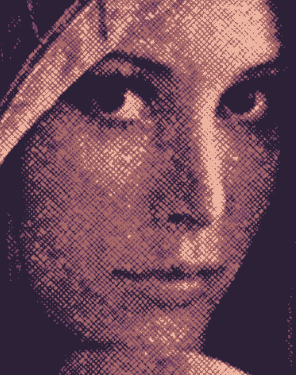
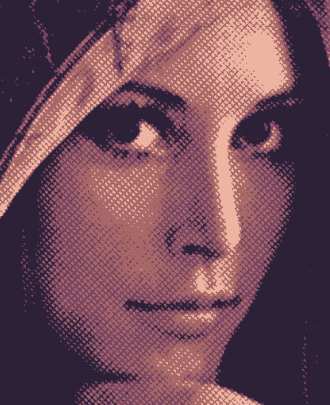
Lena at the disco

diff --git a/Scripting-Tutorial-Halftone-Filter.md b/Scripting-Tutorial-Halftone-Filter.md
@@ -931,7 +931,7 @@ Actually printed paper uses a CMYK color model (Cyan-Magenta-Yellow-Black) with 
 
 ![filter halftone pattern pop art](images/scripting/filter-halftone-pop-art.png)
 
-Even if the CMYK print raster is not the same, this works very well in 8 colors because mixing the primary colors Red, Green and Blue with an additive blend gives directly the primary colors of a subtractive blend Cyan (Green+Blue), Magenta (Red+Blue) and Yellow (Red+Green). At the end the same 8 colors are present in the picture.
+Even if our filter does not produce the typical CMYK print raster, it works very well in 8 colors because mixing the primary colors Red, Green and Blue with an additive blend gives directly the primary colors of a subtractive blend Cyan (Green+Blue), Magenta (Red+Blue) and Yellow (Red+Green). At the end, the resulting set of colors is the same with additive RGB or subtractive CMYK, and this is why the general impression produced by the output of the filter reminds printed paper.
 
 ### Arbitrary palette
 
@@ -1000,15 +1000,91 @@ Add the code, restart OBS, use the Gameboy palette with a Bayer matrix for dithe
 
 ![filter halftone lena gameboy](images/scripting/filter-halftone-lena-gameboy.png)
 
-Another interesting effect with a reduced palette is to use a hatching dithering pattern and adjust levels to make the result looks like hand drawn:
+Another interesting effect with a reduced palette is to use a hatching dithering pattern and adjust levels to make the result looks like a hand drawn picture (yes, that's possible too with the simplest dithering algorithm!):
 
 ![filter halftone lena hatch](images/scripting/filter-halftone-lena-hatch.png)
 
-### Using an animated gif
+With this quick and dirty pattern (not completely seamless but it is not visible on the picture):
 
-
+![filter halftone pattern hatch](images/scripting/filter-halftone-pattern-hatch.png)
 
 ### Transparency
+
+The functions `get_closest_color` and `get_perturbation` both return a `float4` with an alpha value from the related texture. There several ways we can mix the colors now, and let OBS mix colors with the other stuff on the screen. To keep it simple we will just:
+
+- Re-use the alpha of the input source as output (it is already the case in the current code)
+- Blend the result of the dithering with the input source according to the product of the alpha values returned by both functions, i.e. wherever there is some transparency in the palette or the pattern the unmodified source picture will appear
+
+The code is straightforward in the effect file, replace the last `return` line of the pixel shader with (note the use of the [`lerp`](https://docs.microsoft.com/en-us/windows/win32/direct3dhlsl/dx-graphics-hlsl-lerp) function to interpolate between two RGB vectors):
+
+``` HLSL
+    float mix_alpha = perturbation.a * closest_color.a;
+    float3 mixed_color = lerp(source_sample.rgb, closest_color.rgb, mix_alpha);
+
+    return float4(encode_gamma(mixed_color, gamma), source_sample.a);
+```
+
+The mix can be used to give a soft hatching effect with a transparent hatch pattern:
+
+![filter halftone lena soft hatch](images/scripting/filter-halftone-lena-soft-hatch.png)
+
+Done with this pattern (here again not perfectly seamless):
+
+![filter halftone pattern hatch transparent](images/scripting/filter-halftone-pattern-hatch-transparent.png)
+
+Another use of the effect would be masking a specific set of colors in the palette.
+
+### Using an animated GIF
+
+OBS foresees the functions [`gs_image_file_tick`](https://obsproject.com/docs/reference-libobs-graphics-image-file.html#c.gs_image_file_tick) and [`gs_image_file_update_texture`](https://obsproject.com/docs/reference-libobs-graphics-image-file.html#c.gs_image_file_update_texture) for animated GIF files! This is relatively easy to put in place and does not interfere with the rest.
+
+It is necessary to known how many nanoseconds passed since the last tick in `gs_image_file_tick`. This information is not available in `video_render` but it is in `video_tick`. So, assuming both functions are called each frame, we implement the `source_info.video_tick` function just to store the information in `data`, in the Lua file:
+
+``` Lua
+source_info.video_tick = function(data, seconds)
+  data.nanoseconds = seconds*1e9
+end
+```
+
+Then we re-write the `set_texture_effect_parameters` function with the "tick" function:
+
+``` Lua
+function set_texture_effect_parameters(image, param_texture, param_size, nanoseconds)
+  local size = obs.vec2()
+  if image then
+    obs.gs_image_file_tick(image, nanoseconds)
+    obs.gs_image_file_update_texture(image)
+    obs.gs_effect_set_texture(param_texture, image.texture)
+    obs.vec2_set(size, image.cx, image.cy)
+  else
+    obs.vec2_set(size, -1, -1)
+  end
+  obs.gs_effect_set_vec2(param_size, size)
+end
+```
+
+And add the parameter `data.nanoseconds` to the calls to `set_texture_effect_parameters` in `source_info.video_render`:
+
+``` Lua
+  -- Pattern texture
+  set_texture_effect_parameters(data.pattern, data.params.pattern_texture,
+                                data.params.pattern_size, data.nanoseconds)
+  obs.gs_effect_set_float(data.params.pattern_gamma, data.pattern_gamma)
+
+  -- Palette texture
+  set_texture_effect_parameters(data.palette, data.params.palette_texture,
+                                data.params.palette_size, data.nanoseconds)
+  obs.gs_effect_set_float(data.params.palette_gamma, data.palette_gamma)
+```
+
+Add the code, restart OBS or reload the script, then use some animated gif of your choice. Here with some blinking stars to give a night club touch:
+
+![filter halftone lena disco](images/scripting/filter-halftone-lena-disco.gif)
+
+
+
+
+
 ### Re-organizing the properties
 ### Putting everything in a single file
 ## Conclusion
